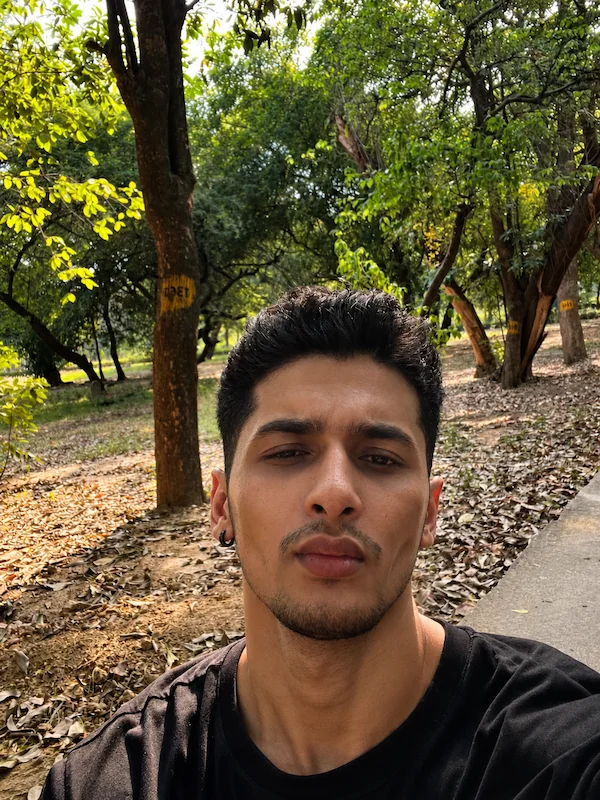
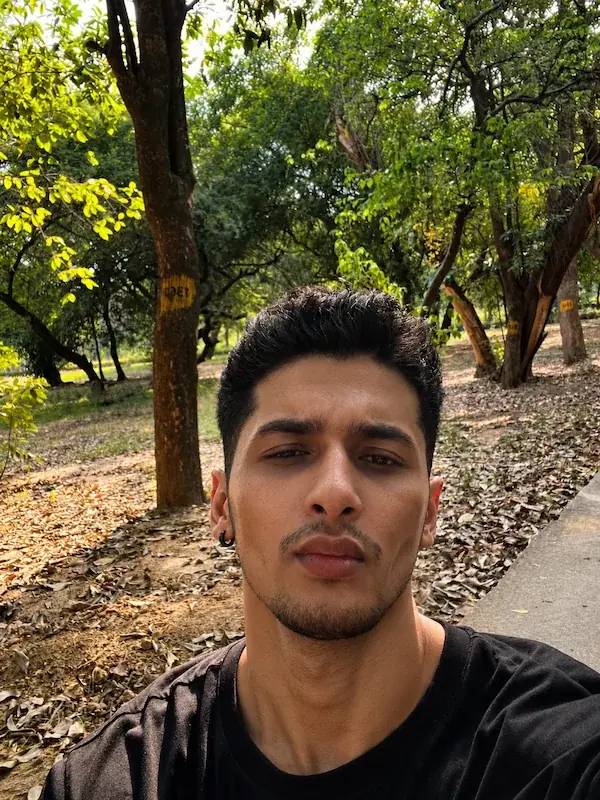
perf: optimize responsive image loading

diff --git a/src/components/sections/Hero.jsx b/src/components/sections/Hero.jsx
@@ -139,7 +139,11 @@ const Hero = () => {
     ${profile600} 600w,
     ${profile800} 800w
   `}
-                  sizes="(max-width: 1024px) 288px, 384px"
+                  sizes="
+  (max-width: 639px) 288px,
+  (max-width: 767px) 320px,
+  384px
+"
                   alt={SITE_CONFIG.fullName}
                   width={800}
                   height={1067}